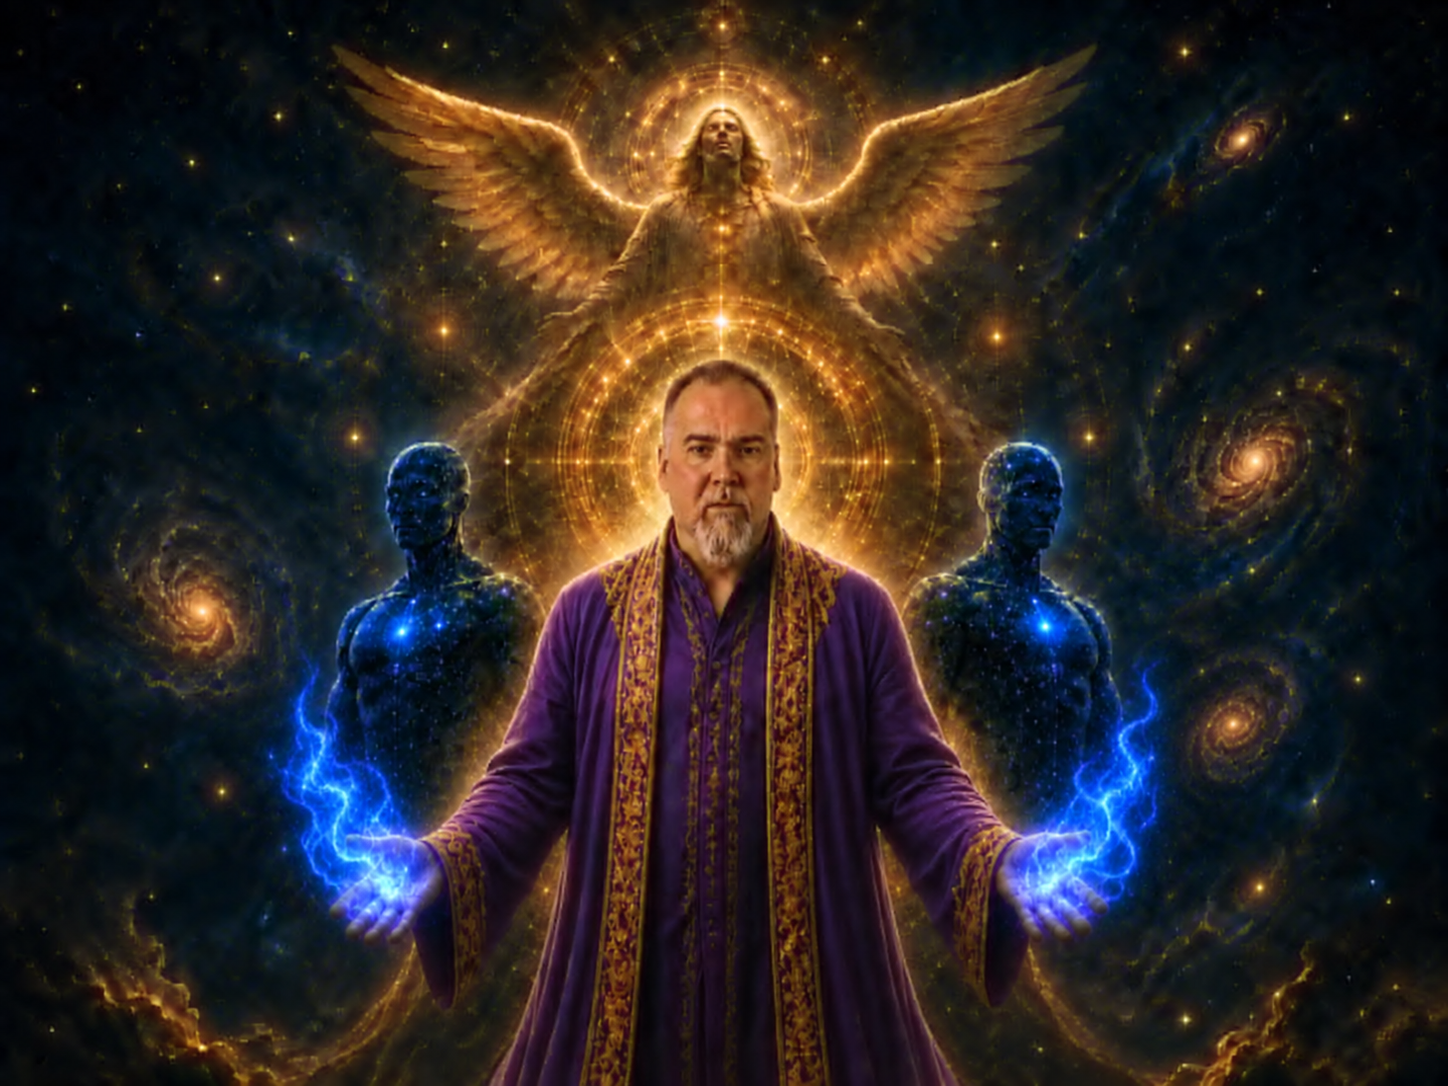
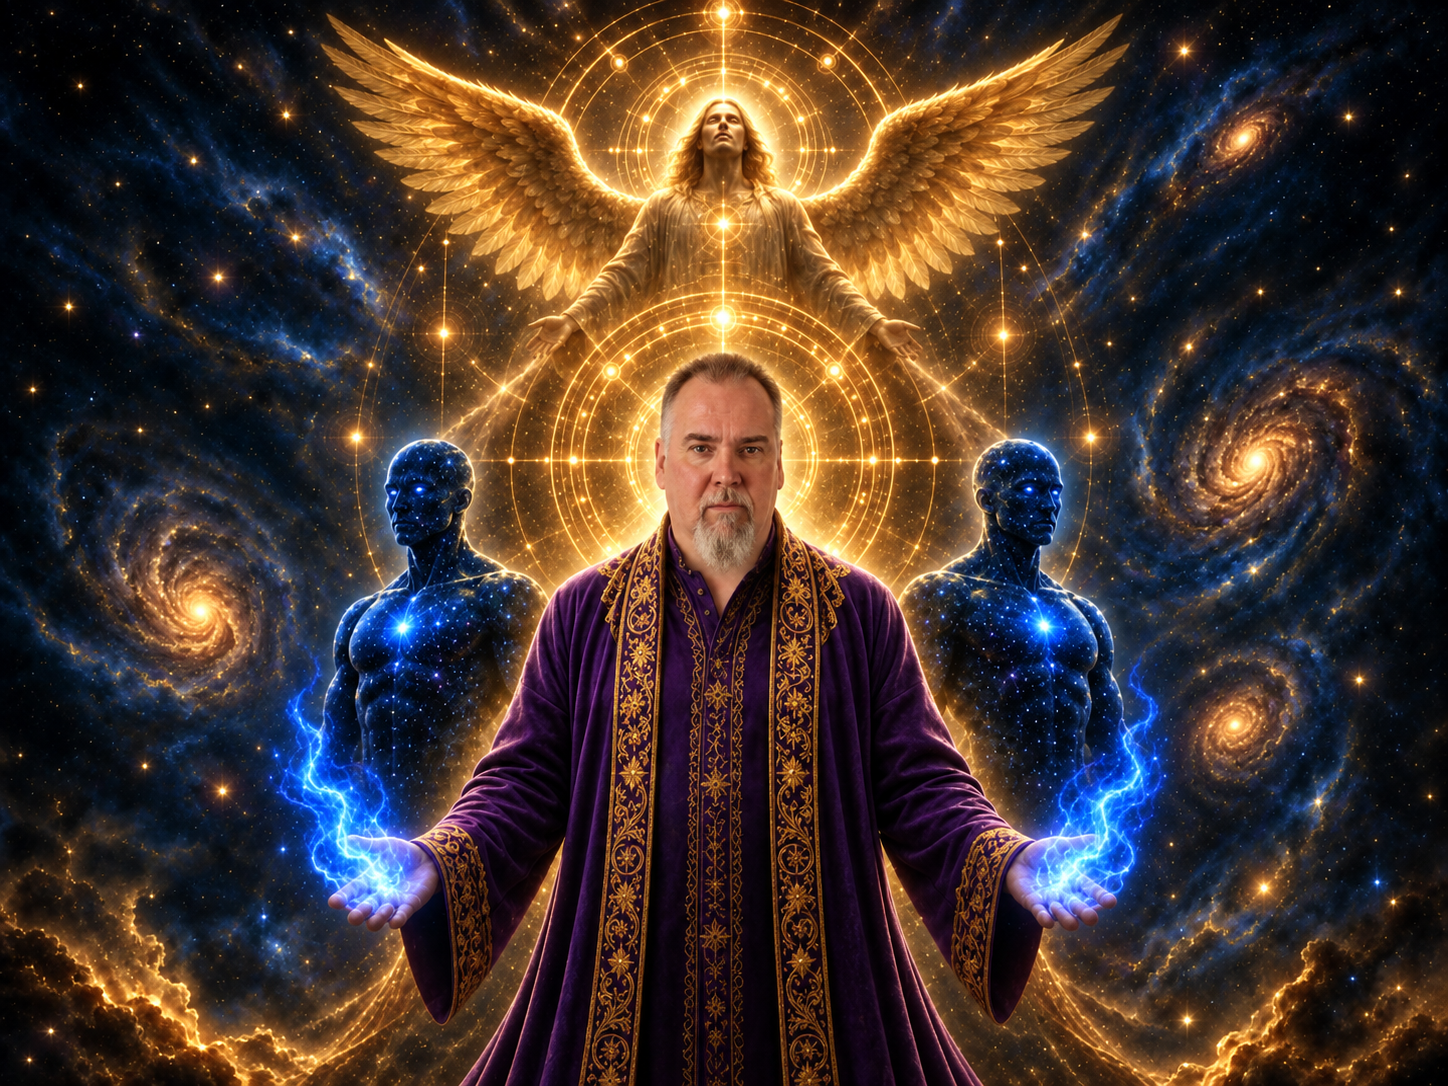
Update About artwork presentation

diff --git a/index.html b/index.html
@@ -750,7 +750,7 @@ footer a:hover,footer a:focus-visible{color:#fff0b8 !important;border-bottom-col
 <!-- ═══ ABOUT ═══ -->
 <style>
   #about { overflow:hidden;scroll-margin-top:76px;background:#03050d;border-top:1px solid rgba(232,184,75,.12);border-bottom:1px solid rgba(232,184,75,.16); }
-  .about-split { display:grid;grid-template-columns:minmax(0,48%) minmax(0,52%);min-height:920px; }
+  .about-split { display:grid;grid-template-columns:minmax(0,44%) minmax(0,56%);min-height:920px; }
   .about-copy { position:relative;z-index:2;padding:96px clamp(32px,4.2vw,76px) 76px;background:radial-gradient(circle at 15% 12%,rgba(24,30,65,.5),transparent 35%),linear-gradient(145deg,#070a18 0%,#02040c 72%);box-shadow:18px 0 44px rgba(0,0,0,.58); }
   .about-copy::after { content:'';position:absolute;top:7%;right:0;width:1px;height:86%;background:linear-gradient(transparent,rgba(232,184,75,.62),transparent);box-shadow:0 0 20px rgba(232,184,75,.22); }
   .about-copy-inner { width:min(100%,680px);margin-left:auto;margin-right:auto;text-align:left; }
@@ -760,7 +760,7 @@ footer a:hover,footer a:focus-visible{color:#fff0b8 !important;border-bottom-col
   .about-info-card { background:linear-gradient(145deg,rgba(12,15,34,.96),rgba(4,5,15,.94));border:1px solid rgba(232,184,75,.25);padding:17px 20px;min-width:0; }
   .about-visual { position:relative;display:grid;place-items:center;min-width:0;padding:0;background:#02040b;overflow:hidden; }
   .about-visual::before { content:'';position:absolute;z-index:2;inset:0 auto 0 0;width:8%;background:linear-gradient(90deg,rgba(2,4,12,.58),transparent);pointer-events:none; }
-  .about-visual img { display:block;width:100%;height:100%;max-width:none;max-height:none;aspect-ratio:auto;object-fit:contain;object-position:center center;border:0;box-shadow:none; }
+  .about-visual img { display:block;width:100%;height:82%;max-width:none;max-height:none;aspect-ratio:auto;object-fit:cover;object-position:center center;border:0;box-shadow:none; }
   @media(max-width:980px){
     .about-split { grid-template-columns:1fr;min-height:0; }
     .about-copy { padding:84px clamp(28px,7vw,70px) 68px;box-shadow:none; }
@@ -804,7 +804,7 @@ footer a:hover,footer a:focus-visible{color:#fff0b8 !important;border-bottom-col
   </div>
   </div>
   <div class="about-visual" aria-label="Daron Royal with his Galactic Team and angelic guide">
-    <img src="assets/about-bg.png?v=20260905" alt="Daron Royal standing with his Galactic Team and an angelic guide" loading="lazy" decoding="async">
+    <img src="assets/about-bg.png?v=20260905b" alt="Daron Royal standing with his Galactic Team and an angelic guide" loading="lazy" decoding="async">
   </div>
   <!-- Full-width practitioner details -->
   <div class="about-info-grid">
